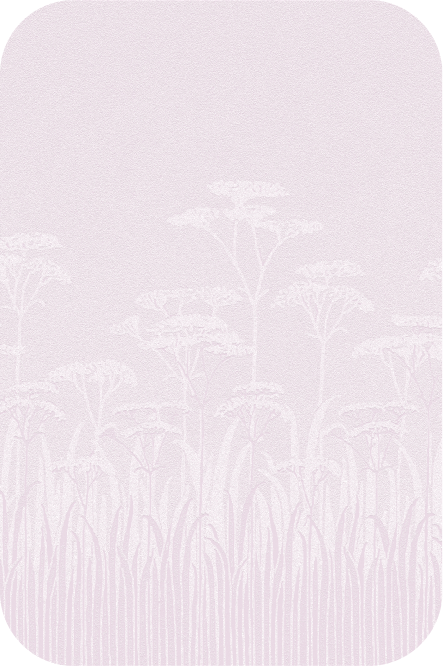
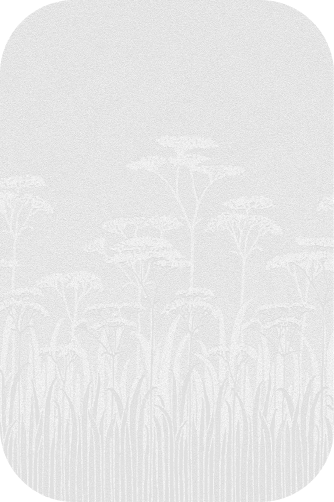
refactor: 마이페이지 편지지 수정

diff --git a/src/pages/MyPage/components/SentLetter/index.tsx b/src/pages/MyPage/components/SentLetter/index.tsx
@@ -25,12 +25,13 @@ const SentLetter = ({ flowerId, receiver, onClose }: SentLetterProps) => {
         <p className="text-gray-300">님께 편지를 보냈어요.</p>
       </div>
       <div
-        className={`font-ls s mt-10 flex h-screen w-full -translate-x-[1px] flex-col rounded-t-[85px] px-7 pt-16 `}
+        className={`font-ls s mt-10 flex h-screen w-full -translate-x-[1px] flex-col rounded-t-[37px] px-7 pt-16 `}
         style={{
           backgroundImage: `url(${getImageUrl()})`,
           backgroundSize: 'cover',
+          backgroundPosition: 'calc(-32px) calc(-10px)',
           boxShadow:
-            '0px -4px 5px rgba(0, 0, 0, 0.1), 0px 10px 25px rgba(0, 0, 0, 0.1)',
+            '0px -4px 5px rgba(0, 0, 0, 0.1), 0px 0px 25px rgba(0, 0, 0, 0.1)',
         }}
       >
         <p className="font-sm mb-10">{letter}</p>
